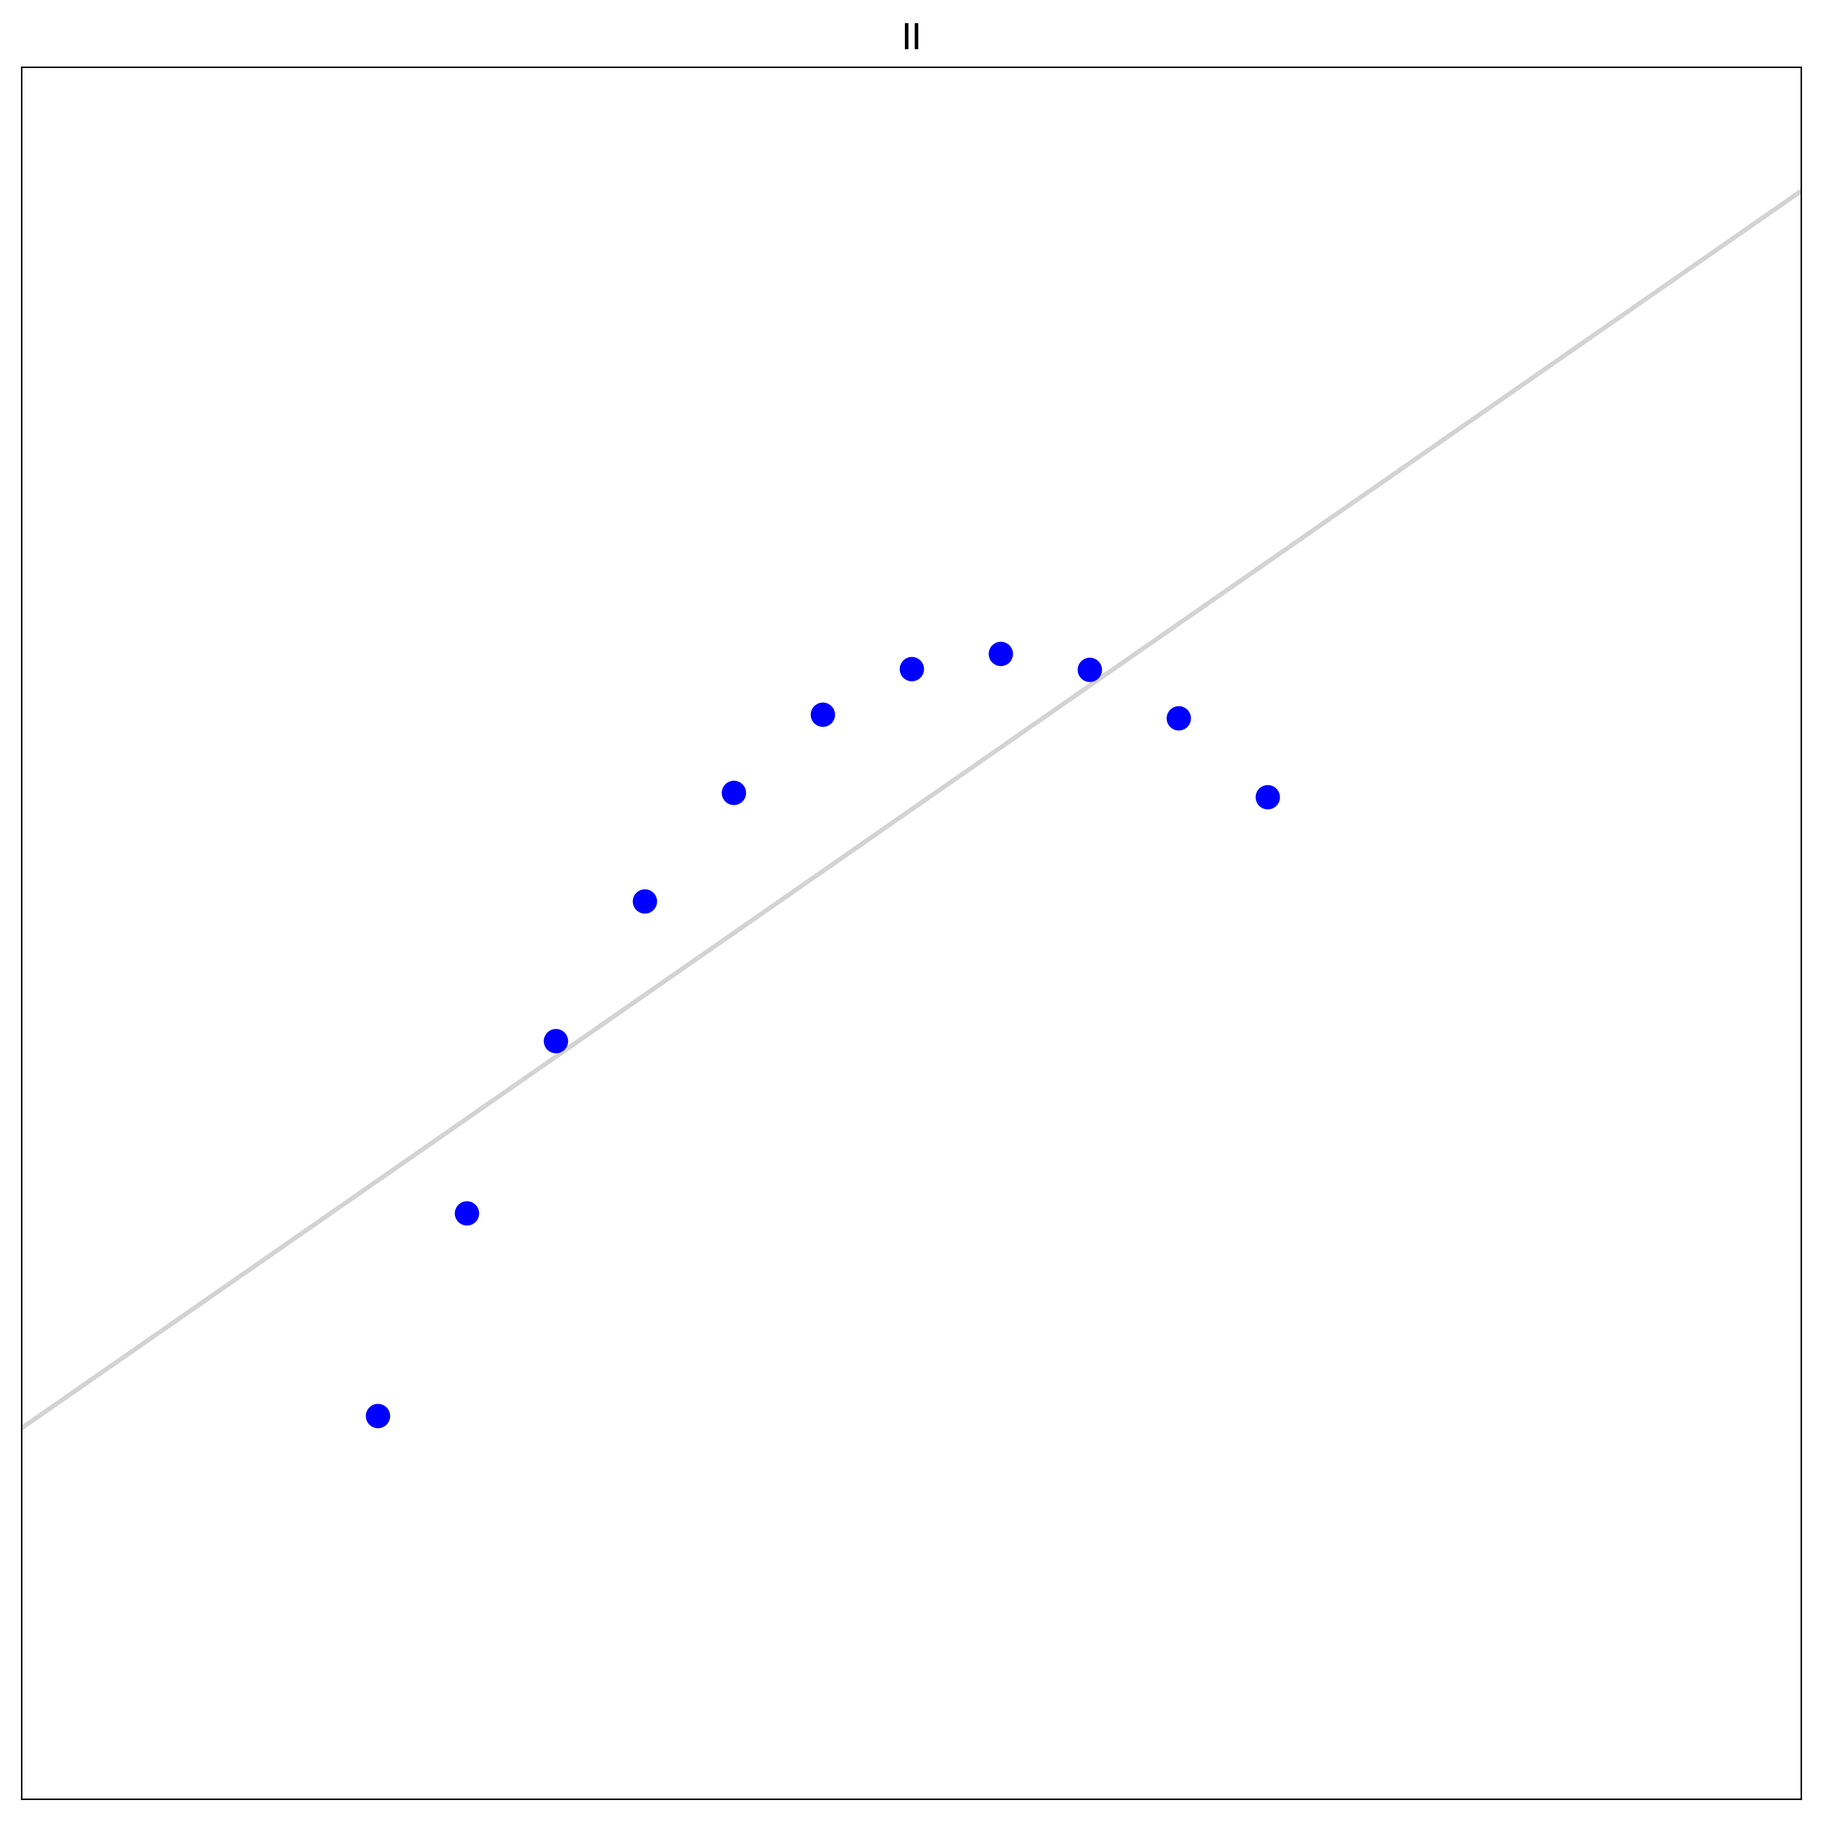
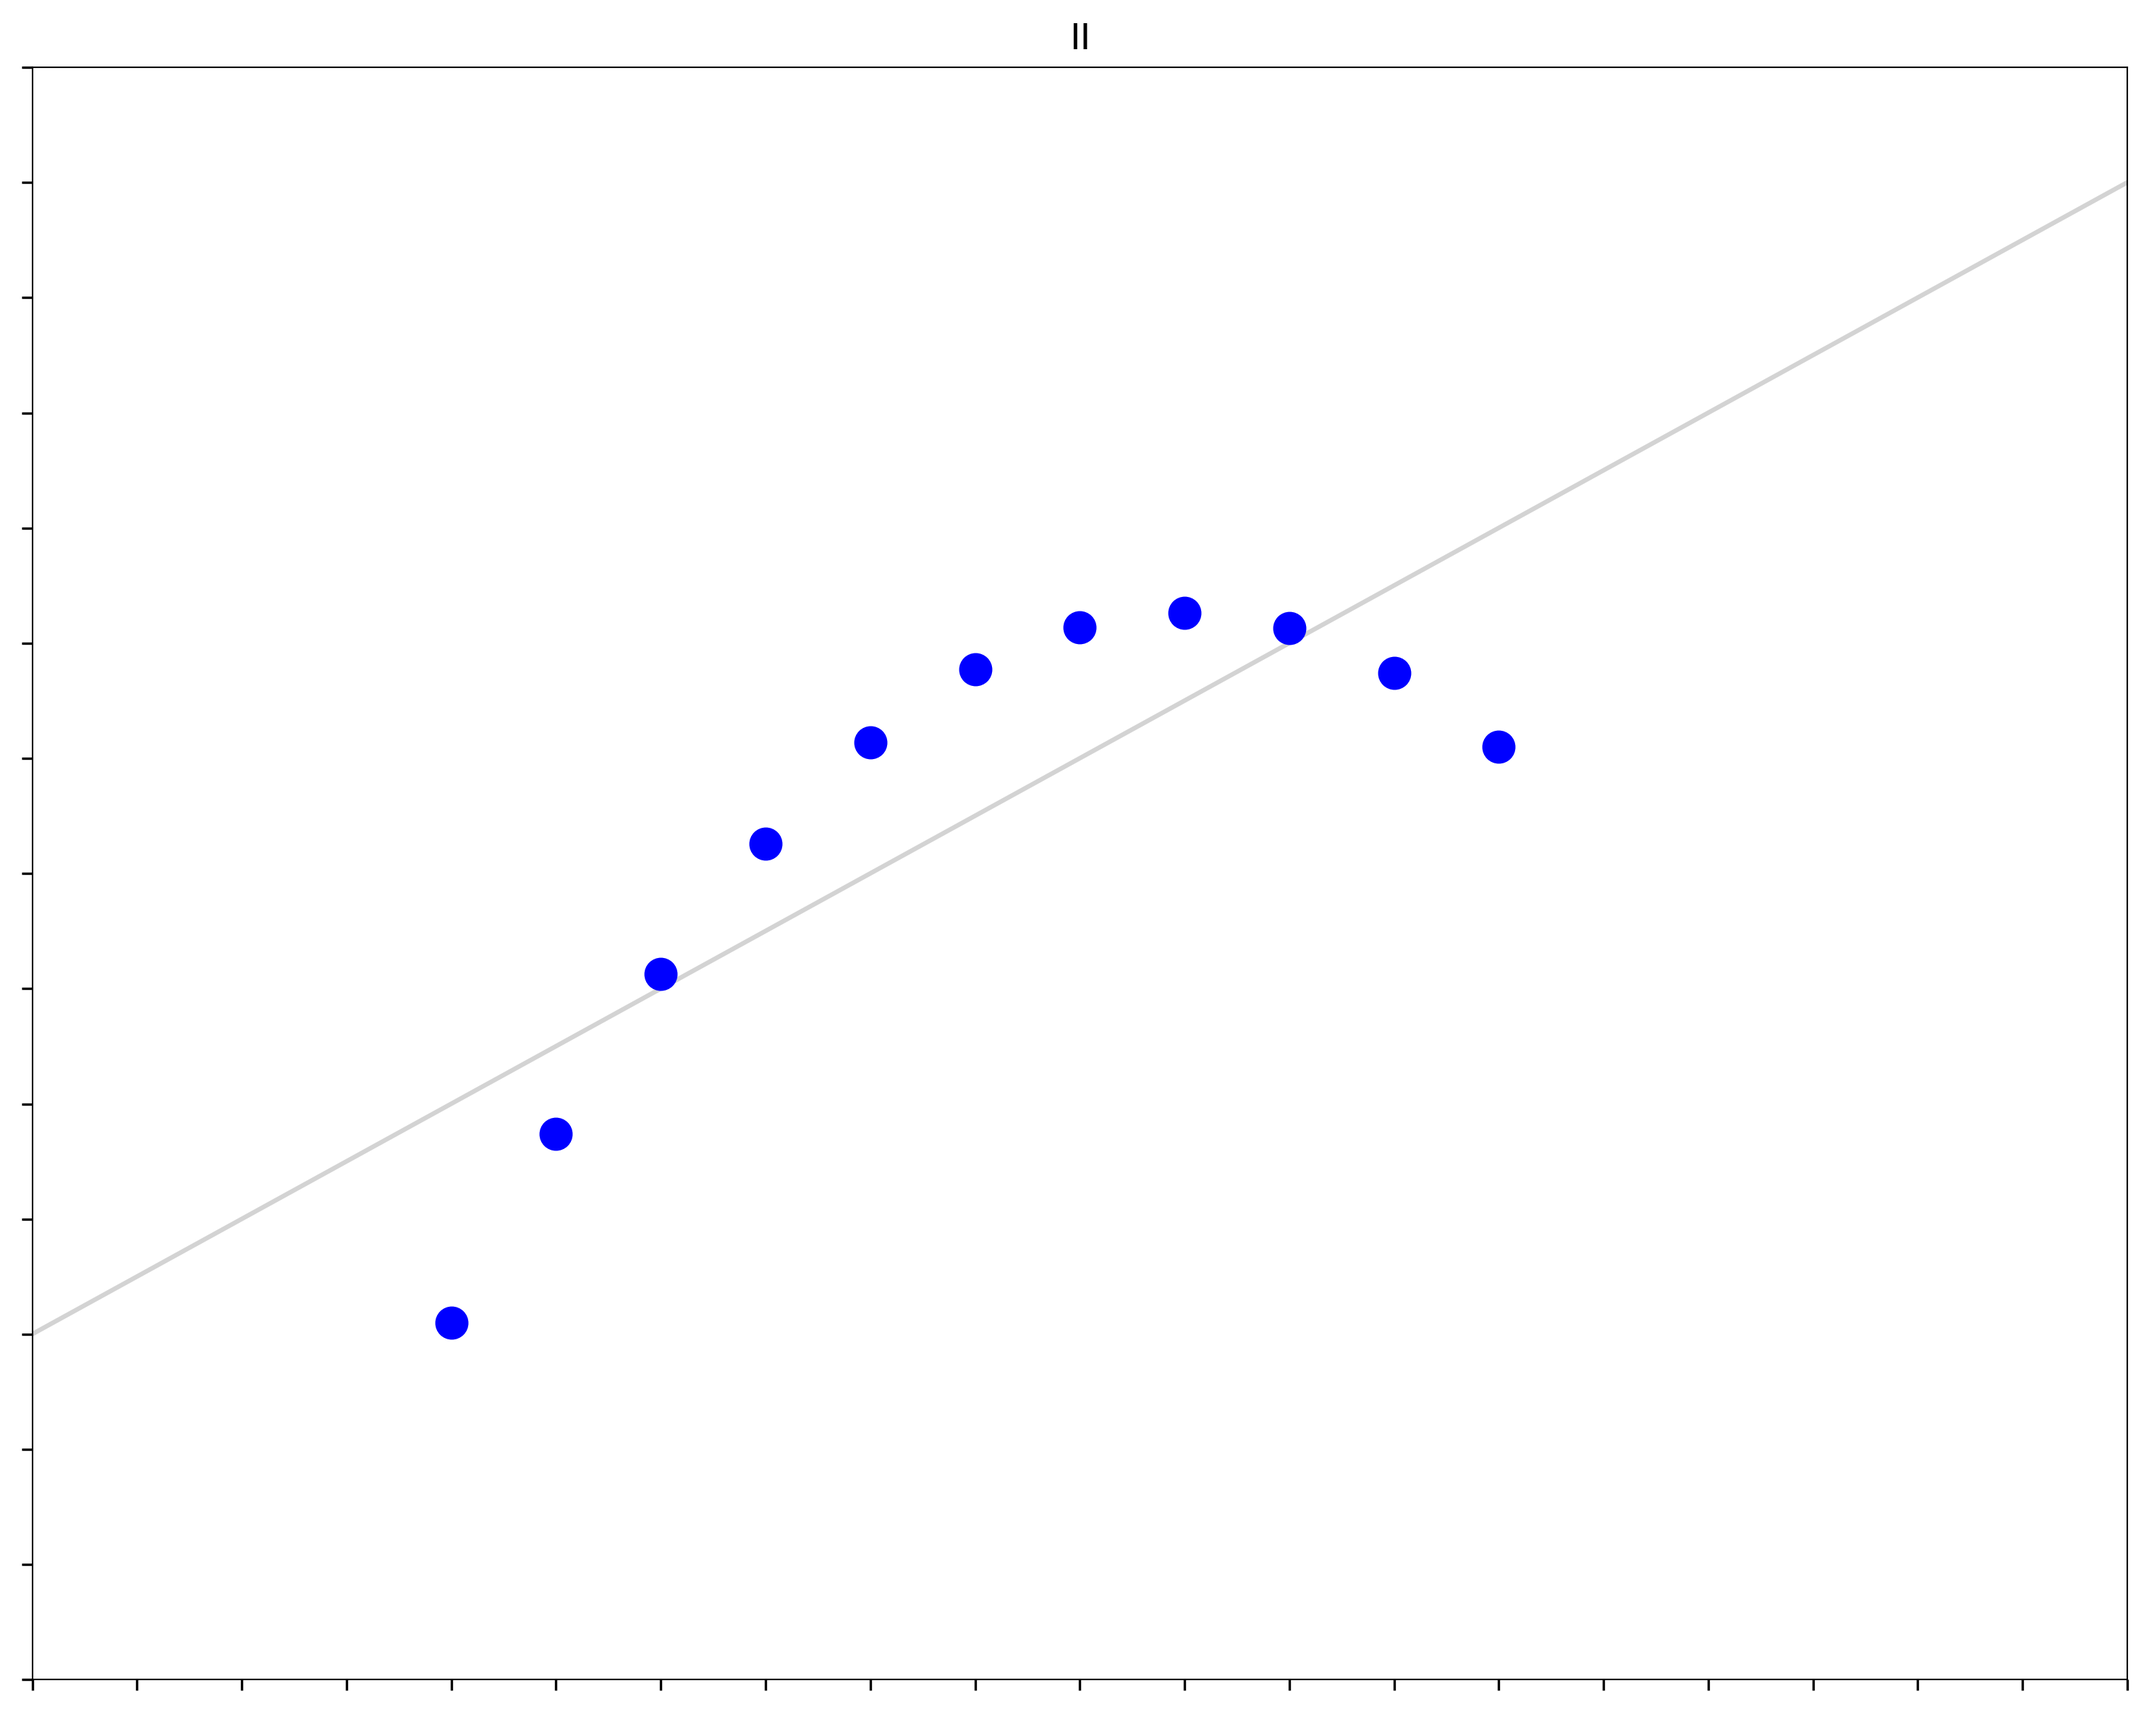
Add tick marks, increase chart width to 10x8, and double point size

diff --git a/README.md b/README.md
@@ -6,10 +6,10 @@ This project creates four separate charts of Anscombe's Quartet using Python in 
 
 ## Features
 - Four datasets (I, II, III, IV), each in its own pandas DataFrame
-- Each dataset saved as a separate PNG file (8.5x8.5 inches)
-- Minimalist design with no axis labels
+- Each dataset saved as a separate PNG file (10x8 inches)
+- Minimalist design with tick marks but no axis labels
 - Light grey linear regression lines
-- Blue data points
+- Blue data points (enhanced visibility)
 - High-resolution PNG output (300 DPI)
 
 ## Usage
